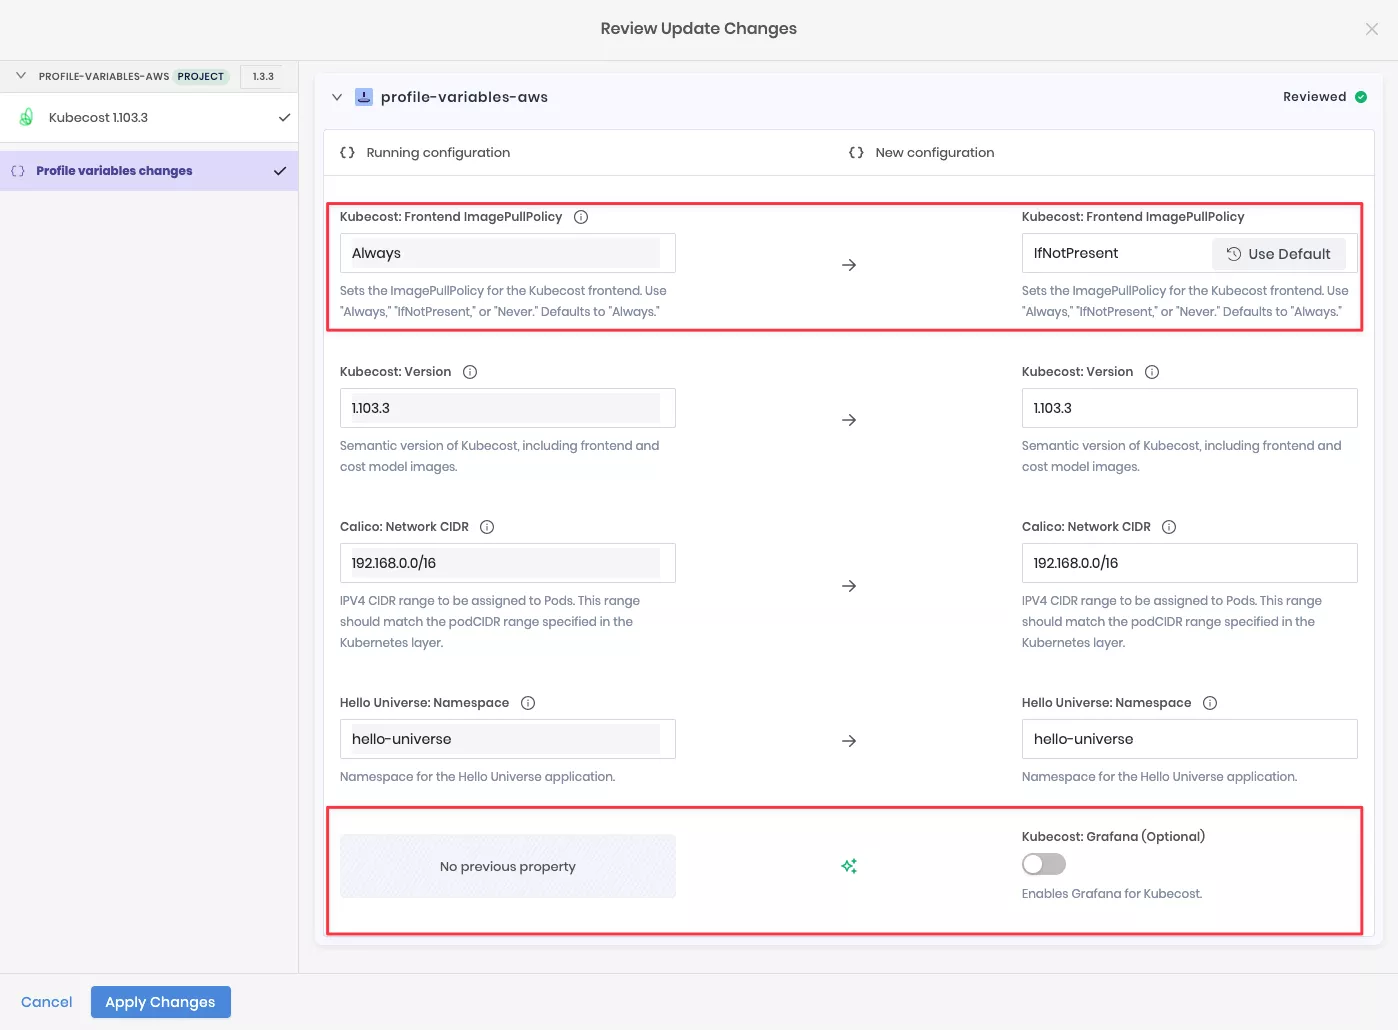
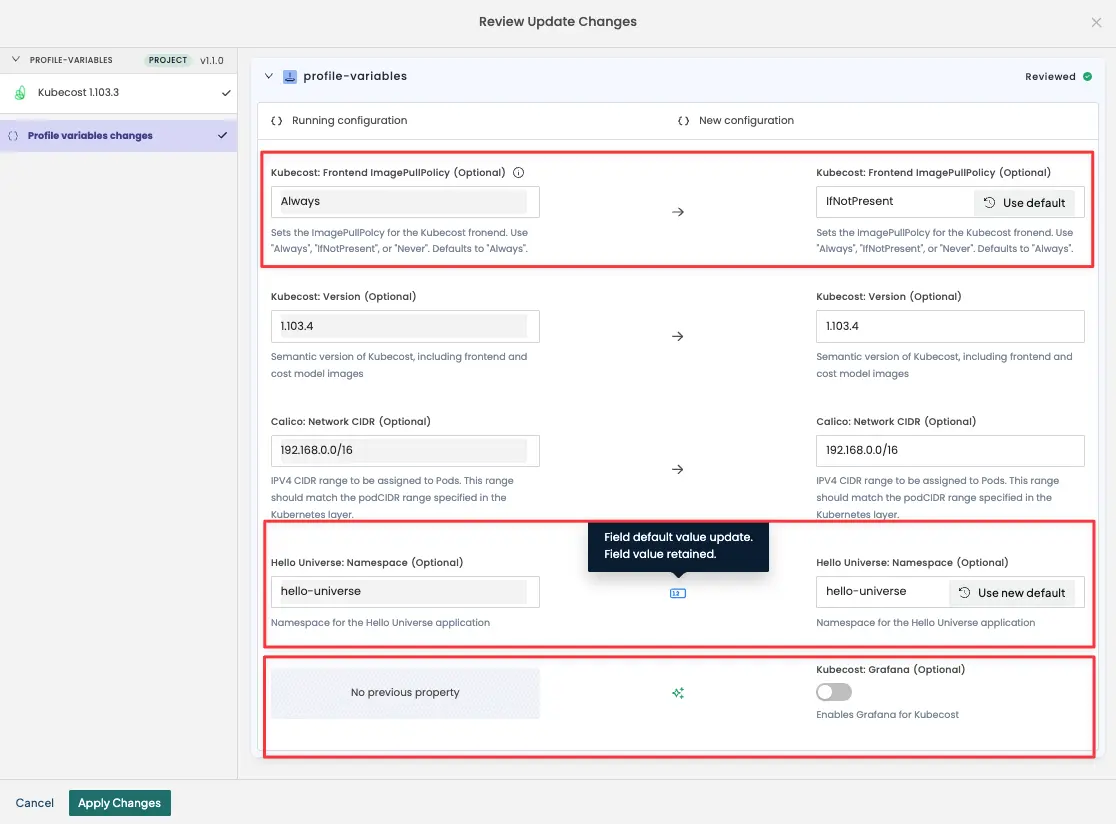
docs: doc-1841 profile variable workflow update

diff --git a/docs/docs-content/profiles/cluster-profiles/create-cluster-profiles/define-profile-variables/modify-cluster-profile-variables.md b/docs/docs-content/profiles/cluster-profiles/create-cluster-profiles/define-profile-variables/modify-cluster-profile-variables.md
@@ -146,9 +146,13 @@ the appropriate workflow based on the changes you make to your cluster.
    If you are overwriting the default value, you can revert to the original value by selecting **Use Default**. Updated
    profile variable values must match the schema defined in the cluster profile variable.
 
-   Each profile must have a **Reviewed** status, indicated by a green check mark, before you can apply your changes. In
-   the example below, we added a new profile variable for Grafana and changed the Kubecost frontend `imagePullPolicy`
-   from `Always` to `IfNotPresent`.
+   Each profile must have a **Reviewed** status, indicated by a green check mark, before you can apply your changes. Hovering over each icon between **Running configuration** and **New configuration** will explain what is being done for each variable. In the following example, we changed: 
+   
+   - the Kubecost frontend `imagePullPolicy` from `Always` to `IfNotPresent`
+
+   - changed the Default value of the Hello Universe `namespace` variable. The assigned value is remains the same from the Profile version 1.0.0 to 1.1.0.
+
+   - added a new profile variable for Grafana. 
 
    ![Reviewing profile variable changes using the Change Summary Process](/profiles_cluster-profiles_create-cluster-profiles_define-profile-variables_modify-cluster-profile-variable-review-update-changes.webp)
 
